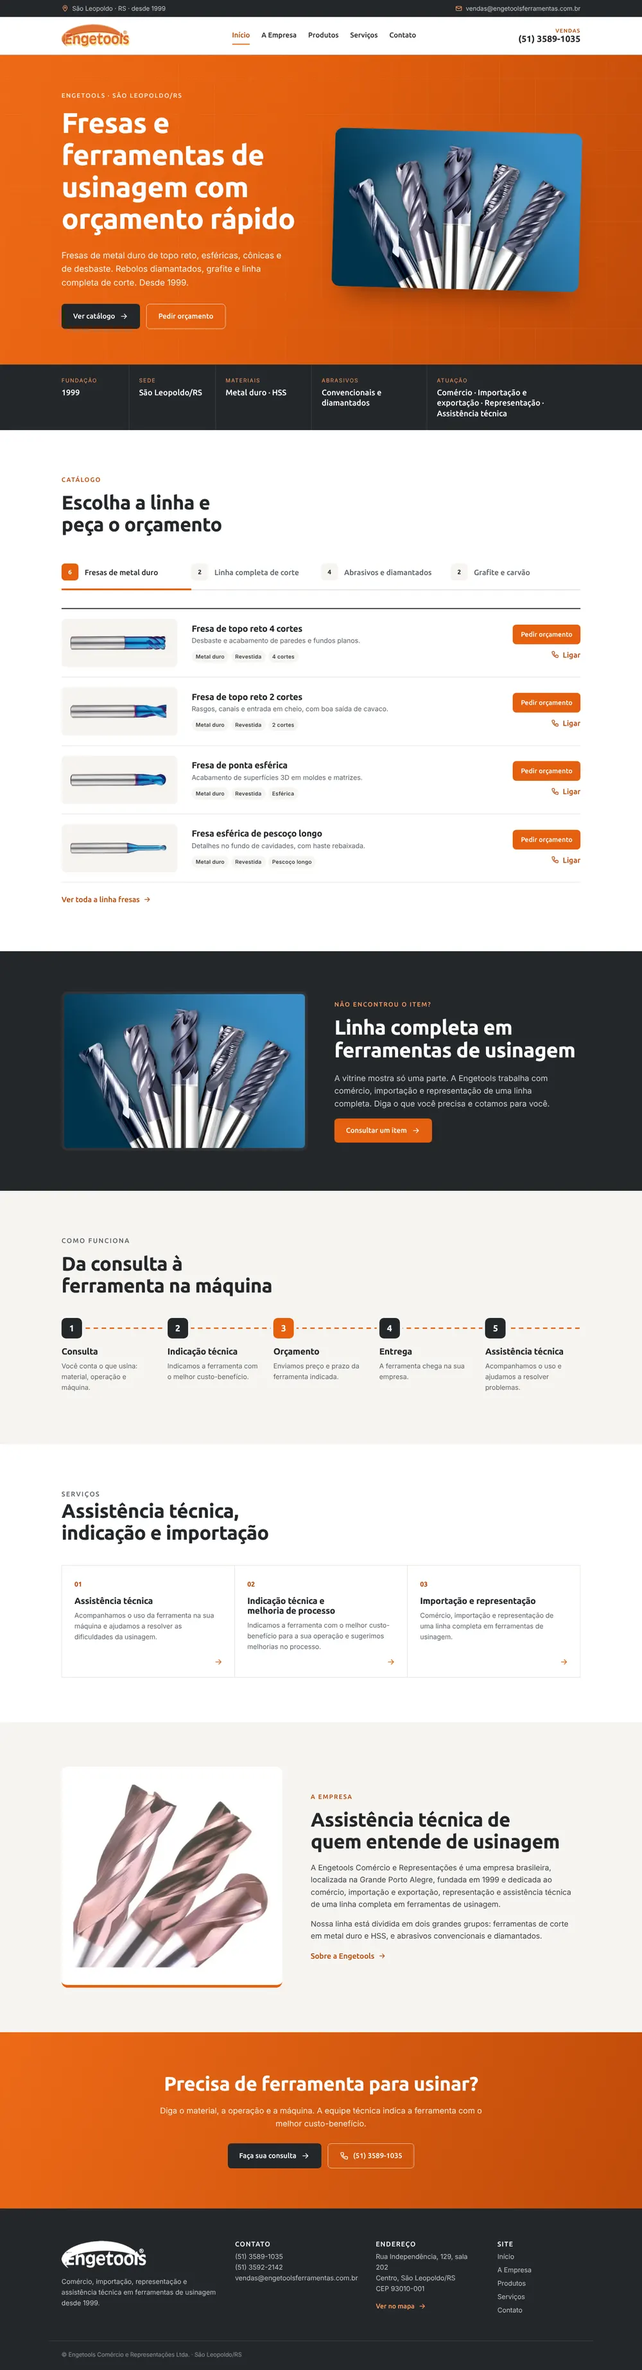
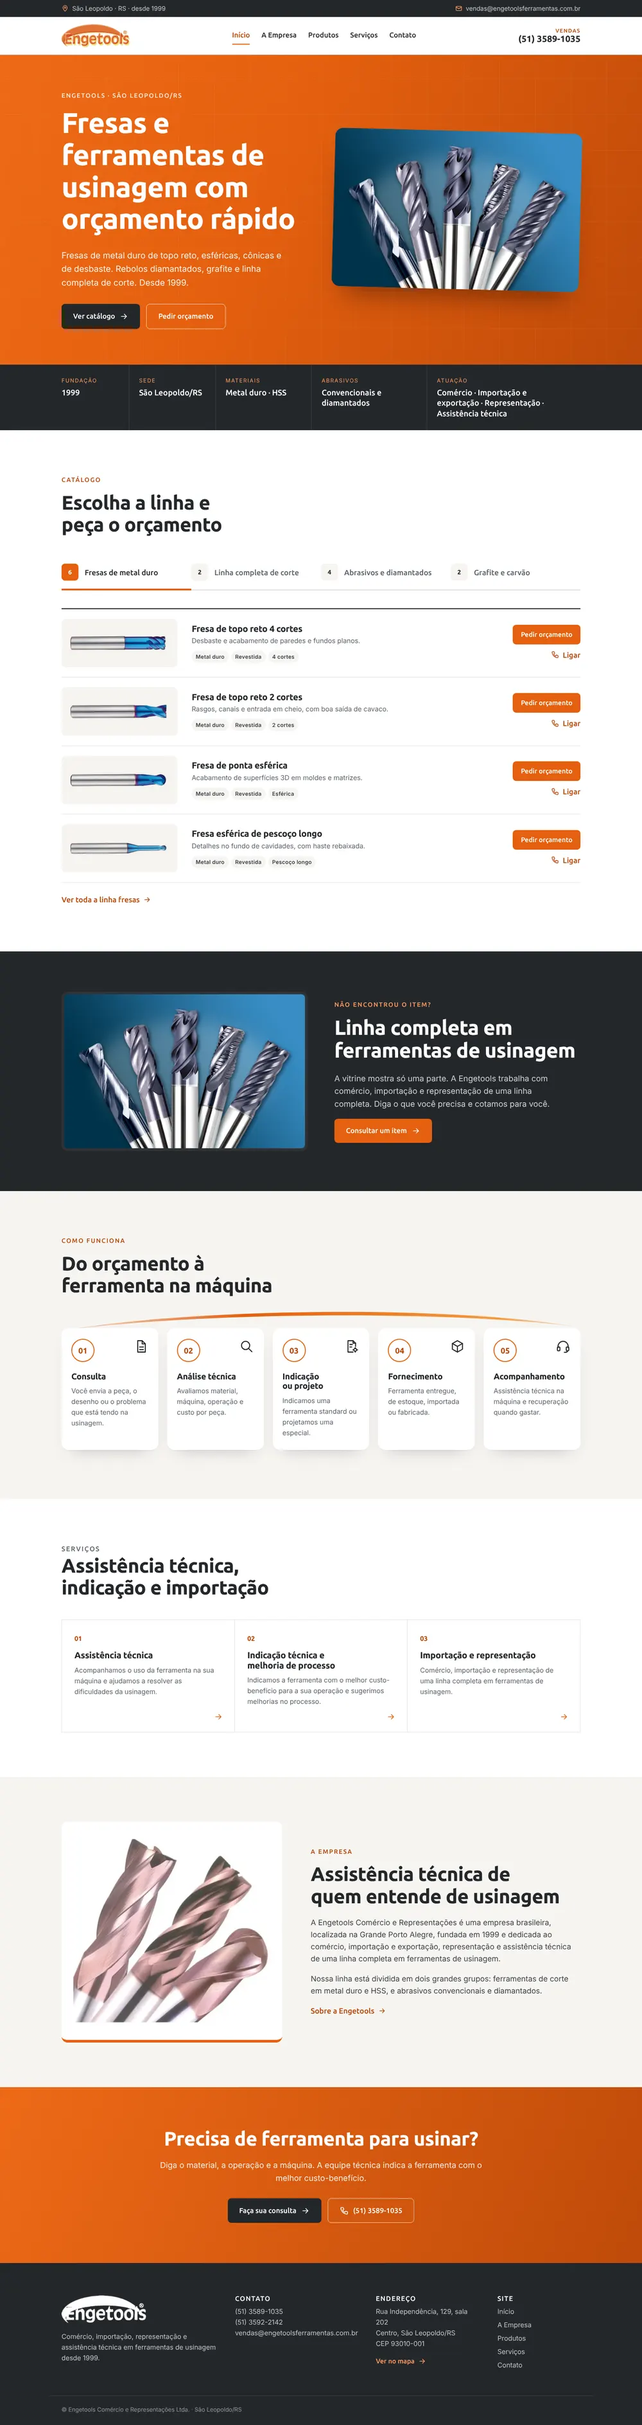
Engetools: dobra de etapas com o texto e o layout do Joao (arco e 5 cartões com número e ícone) nas duas versões
Claude-Session: https://claude.ai/code/session_014EQi8NbMcygHbghtyXaCQg

diff --git a/clientes/engetools/public/a/servicos/index.html b/clientes/engetools/public/a/servicos/index.html
@@ -36,9 +36,10 @@
 <main id="conteudo">
 <section class="capa"><div class="in"><p class="eyebrow">Serviços</p><h1>Assistência técnica de quem entende de usinagem</h1><p>Indicação da ferramenta certa, melhoria de processo, importação e representação.</p></div><svg class="arco" viewBox="0 0 1000 260" preserveAspectRatio="none" aria-hidden="true"><path d="M0 250C140 70 420 8 640 10c170 2 300 50 360 120-90-50-210-78-360-80C430 48 190 110 0 250z"/></svg></section>
 <section class="serv-lista"><div class="in"><article id="assistencia" class="serv-item"><figure><img src="/assets/img/fresas-cobre.webp" alt="Assistência técnica" width="700" height="649" loading="lazy" decoding="async"></figure><div><span class="n">01</span><h2>Assistência técnica</h2><p>Acompanhamos o uso da ferramenta na sua máquina e ajudamos a resolver as dificuldades da usinagem.</p></div></article><article id="indicacao" class="serv-item inv"><figure><img src="/assets/img/fresas-grupo.webp" alt="Indicação técnica e melhoria de processo" width="625" height="400" loading="lazy" decoding="async"></figure><div><span class="n">02</span><h2>Indicação técnica e melhoria de processo</h2><p>Indicamos a ferramenta com o melhor custo-benefício para a sua operação e sugerimos melhorias no processo.</p></div></article><article id="importacao" class="serv-item"><figure><img src="/assets/img/rebolos-diamantados.webp" alt="Importação e representação" width="546" height="406" loading="lazy" decoding="async"></figure><div><span class="n">03</span><h2>Importação e representação</h2><p>Comércio, importação e representação de uma linha completa em ferramentas de usinagem.</p></div></article></div></section>
-<section class="processo-a"><div class="in">
-  <div class="tit"><p class="eyebrow">Como funciona</p><h2>Da consulta à ferramenta na máquina</h2></div>
-  <svg class="arco arco-linha" viewBox="0 0 1000 260" preserveAspectRatio="none" aria-hidden="true"><path d="M0 250C140 70 420 8 640 10c170 2 300 50 360 120-90-50-210-78-360-80C430 48 190 110 0 250z"/></svg><ol class="etapas-arco"><li style="--i:0"><span class="n">01</span><h3>Consulta</h3><p>Você conta o que usina: material, operação e máquina.</p></li><li style="--i:1"><span class="n">02</span><h3>Indicação técnica</h3><p>Indicamos a ferramenta com o melhor custo-benefício.</p></li><li style="--i:2"><span class="n">03</span><h3>Orçamento</h3><p>Enviamos preço e prazo da ferramenta indicada.</p></li><li style="--i:3"><span class="n">04</span><h3>Entrega</h3><p>A ferramenta chega na sua empresa.</p></li><li style="--i:4"><span class="n">05</span><h3>Assistência técnica</h3><p>Acompanhamos o uso e ajudamos a resolver problemas.</p></li></ol>
+<section class="etapas"><div class="in">
+  <div class="tit"><p class="eyebrow">Como funciona</p><h2>Do orçamento à<br>ferramenta na máquina</h2></div>
+  <svg class="etapas-arco" viewBox="0 0 1000 60" preserveAspectRatio="none" aria-hidden="true"><defs><linearGradient id="g-arco" x1="0" x2="1"><stop offset="0" stop-color="#E5600F" stop-opacity=".2"/><stop offset=".35" stop-color="#E5600F"/><stop offset=".85" stop-color="#F59A3C"/><stop offset="1" stop-color="#F59A3C" stop-opacity=".2"/></linearGradient></defs><path d="M10 58C260 6 740 -2 990 50C740 10 260 16 10 58z" fill="url(#g-arco)"/></svg>
+  <ol class="etapas-cards"><li><div class="etapa-topo"><span class="n">01</span><svg class="ic etapa-ic" viewBox="0 0 24 24" fill="none" stroke="currentColor" stroke-width="2" stroke-linecap="round" stroke-linejoin="round" aria-hidden="true"><path d="M7 3h7l5 5v13H7z"/><path d="M14 3v5h5M10 13h6M10 17h6"/></svg></div><h3>Consulta</h3><p>Você envia a peça, o desenho ou o problema que está tendo na usinagem.</p></li><li><div class="etapa-topo"><span class="n">02</span><svg class="ic etapa-ic" viewBox="0 0 24 24" fill="none" stroke="currentColor" stroke-width="2" stroke-linecap="round" stroke-linejoin="round" aria-hidden="true"><circle cx="10.5" cy="10.5" r="6.5"/><path d="M15.5 15.5l5 5"/></svg></div><h3>Análise técnica</h3><p>Avaliamos material, máquina, operação e custo por peça.</p></li><li><div class="etapa-topo"><span class="n">03</span><svg class="ic etapa-ic" viewBox="0 0 24 24" fill="none" stroke="currentColor" stroke-width="2" stroke-linecap="round" stroke-linejoin="round" aria-hidden="true"><path d="M14 21H6V3h8l4 4v5"/><path d="M14 3v4h4M9 9h4M9 13h3"/><circle cx="17.5" cy="17.5" r="2.2"/><path d="M17.5 13.8v1.5M17.5 19.7v1.5M13.8 17.5h1.5M19.7 17.5h1.5"/></svg></div><h3>Indicação ou projeto</h3><p>Indicamos uma ferramenta standard ou projetamos uma especial.</p></li><li><div class="etapa-topo"><span class="n">04</span><svg class="ic etapa-ic" viewBox="0 0 24 24" fill="none" stroke="currentColor" stroke-width="2" stroke-linecap="round" stroke-linejoin="round" aria-hidden="true"><path d="M12 3l8 4.5v9L12 21l-8-4.5v-9z"/><path d="M4 7.5l8 4.5 8-4.5M12 12v9"/></svg></div><h3>Fornecimento</h3><p>Ferramenta entregue, de estoque, importada ou fabricada.</p></li><li><div class="etapa-topo"><span class="n">05</span><svg class="ic etapa-ic" viewBox="0 0 24 24" fill="none" stroke="currentColor" stroke-width="2" stroke-linecap="round" stroke-linejoin="round" aria-hidden="true"><path d="M4 14v-2a8 8 0 0116 0v2"/><rect x="3" y="13" width="4" height="6" rx="1.5"/><rect x="17" y="13" width="4" height="6" rx="1.5"/><path d="M19 19c0 1.5-2 2.5-5 2.5"/></svg></div><h3>Acompanhamento</h3><p>Assistência técnica na máquina e recuperação quando gastar.</p></li></ol>
 </div></section>
 <section class="cta"><div class="in">
   <div><h2>Faça sua consulta</h2><p>Diga o que você usina e qual ferramenta procura. Respondemos com a indicação, o preço e o prazo.</p></div>

diff --git a/clientes/engetools/public/a/index.html b/clientes/engetools/public/a/index.html
@@ -74,9 +74,10 @@
   <div class="serv-tres"><a class="serv" href="/a/servicos/#assistencia"><figure><img src="/assets/img/fresas-cobre.webp" alt="Assistência técnica" width="700" height="649" loading="lazy" decoding="async"></figure><h3>Assistência técnica</h3><p>Acompanhamos o uso da ferramenta na sua máquina e ajudamos a resolver as dificuldades da usinagem.</p></a><a class="serv" href="/a/servicos/#indicacao"><figure><img src="/assets/img/fresas-grupo.webp" alt="Indicação técnica e melhoria de processo" width="625" height="400" loading="lazy" decoding="async"></figure><h3>Indicação técnica e melhoria de processo</h3><p>Indicamos a ferramenta com o melhor custo-benefício para a sua operação e sugerimos melhorias no processo.</p></a><a class="serv" href="/a/servicos/#importacao"><figure><img src="/assets/img/rebolos-diamantados.webp" alt="Importação e representação" width="546" height="406" loading="lazy" decoding="async"></figure><h3>Importação e representação</h3><p>Comércio, importação e representação de uma linha completa em ferramentas de usinagem.</p></a></div>
   <p class="centro"><a class="link link-claro" href="/a/servicos/">Todos os serviços <svg class="ic" viewBox="0 0 24 24" fill="none" stroke="currentColor" stroke-width="2" stroke-linecap="round" stroke-linejoin="round" aria-hidden="true"><path d="M5 12h14M13 6l6 6-6 6"/></svg></a></p>
 </div></section>
-<section class="processo-a"><div class="in">
-  <div class="tit"><p class="eyebrow">Como funciona</p><h2>Da consulta à ferramenta na máquina</h2></div>
-  <svg class="arco arco-linha" viewBox="0 0 1000 260" preserveAspectRatio="none" aria-hidden="true"><path d="M0 250C140 70 420 8 640 10c170 2 300 50 360 120-90-50-210-78-360-80C430 48 190 110 0 250z"/></svg><ol class="etapas-arco"><li style="--i:0"><span class="n">01</span><h3>Consulta</h3><p>Você conta o que usina: material, operação e máquina.</p></li><li style="--i:1"><span class="n">02</span><h3>Indicação técnica</h3><p>Indicamos a ferramenta com o melhor custo-benefício.</p></li><li style="--i:2"><span class="n">03</span><h3>Orçamento</h3><p>Enviamos preço e prazo da ferramenta indicada.</p></li><li style="--i:3"><span class="n">04</span><h3>Entrega</h3><p>A ferramenta chega na sua empresa.</p></li><li style="--i:4"><span class="n">05</span><h3>Assistência técnica</h3><p>Acompanhamos o uso e ajudamos a resolver problemas.</p></li></ol>
+<section class="etapas"><div class="in">
+  <div class="tit"><p class="eyebrow">Como funciona</p><h2>Do orçamento à<br>ferramenta na máquina</h2></div>
+  <svg class="etapas-arco" viewBox="0 0 1000 60" preserveAspectRatio="none" aria-hidden="true"><defs><linearGradient id="g-arco" x1="0" x2="1"><stop offset="0" stop-color="#E5600F" stop-opacity=".2"/><stop offset=".35" stop-color="#E5600F"/><stop offset=".85" stop-color="#F59A3C"/><stop offset="1" stop-color="#F59A3C" stop-opacity=".2"/></linearGradient></defs><path d="M10 58C260 6 740 -2 990 50C740 10 260 16 10 58z" fill="url(#g-arco)"/></svg>
+  <ol class="etapas-cards"><li><div class="etapa-topo"><span class="n">01</span><svg class="ic etapa-ic" viewBox="0 0 24 24" fill="none" stroke="currentColor" stroke-width="2" stroke-linecap="round" stroke-linejoin="round" aria-hidden="true"><path d="M7 3h7l5 5v13H7z"/><path d="M14 3v5h5M10 13h6M10 17h6"/></svg></div><h3>Consulta</h3><p>Você envia a peça, o desenho ou o problema que está tendo na usinagem.</p></li><li><div class="etapa-topo"><span class="n">02</span><svg class="ic etapa-ic" viewBox="0 0 24 24" fill="none" stroke="currentColor" stroke-width="2" stroke-linecap="round" stroke-linejoin="round" aria-hidden="true"><circle cx="10.5" cy="10.5" r="6.5"/><path d="M15.5 15.5l5 5"/></svg></div><h3>Análise técnica</h3><p>Avaliamos material, máquina, operação e custo por peça.</p></li><li><div class="etapa-topo"><span class="n">03</span><svg class="ic etapa-ic" viewBox="0 0 24 24" fill="none" stroke="currentColor" stroke-width="2" stroke-linecap="round" stroke-linejoin="round" aria-hidden="true"><path d="M14 21H6V3h8l4 4v5"/><path d="M14 3v4h4M9 9h4M9 13h3"/><circle cx="17.5" cy="17.5" r="2.2"/><path d="M17.5 13.8v1.5M17.5 19.7v1.5M13.8 17.5h1.5M19.7 17.5h1.5"/></svg></div><h3>Indicação ou projeto</h3><p>Indicamos uma ferramenta standard ou projetamos uma especial.</p></li><li><div class="etapa-topo"><span class="n">04</span><svg class="ic etapa-ic" viewBox="0 0 24 24" fill="none" stroke="currentColor" stroke-width="2" stroke-linecap="round" stroke-linejoin="round" aria-hidden="true"><path d="M12 3l8 4.5v9L12 21l-8-4.5v-9z"/><path d="M4 7.5l8 4.5 8-4.5M12 12v9"/></svg></div><h3>Fornecimento</h3><p>Ferramenta entregue, de estoque, importada ou fabricada.</p></li><li><div class="etapa-topo"><span class="n">05</span><svg class="ic etapa-ic" viewBox="0 0 24 24" fill="none" stroke="currentColor" stroke-width="2" stroke-linecap="round" stroke-linejoin="round" aria-hidden="true"><path d="M4 14v-2a8 8 0 0116 0v2"/><rect x="3" y="13" width="4" height="6" rx="1.5"/><rect x="17" y="13" width="4" height="6" rx="1.5"/><path d="M19 19c0 1.5-2 2.5-5 2.5"/></svg></div><h3>Acompanhamento</h3><p>Assistência técnica na máquina e recuperação quando gastar.</p></li></ol>
 </div></section>
 <section class="cta"><div class="in">
   <div><h2>Faça sua consulta</h2><p>Diga o que você usina e qual ferramenta procura. Respondemos com a indicação, o preço e o prazo.</p></div>

diff --git a/clientes/engetools/public/b/servicos/index.html b/clientes/engetools/public/b/servicos/index.html
@@ -37,10 +37,10 @@
 <main id="conteudo">
 <section class="capa"><div class="in"><p class="eyebrow">Serviços</p><h1>Assistência técnica de quem entende de usinagem</h1><p>Da indicação da ferramenta ao acompanhamento na sua máquina.</p></div></section>
 <section class="serv-b"><div class="in"><article id="assistencia"><span class="n">01</span><figure><img src="/assets/img/fresas-cobre.webp" alt="Assistência técnica" width="700" height="649" loading="lazy" decoding="async"></figure><div><h2>Assistência técnica</h2><p>Acompanhamos o uso da ferramenta na sua máquina e ajudamos a resolver as dificuldades da usinagem.</p></div></article><article id="indicacao"><span class="n">02</span><figure><img src="/assets/img/fresas-grupo.webp" alt="Indicação técnica e melhoria de processo" width="625" height="400" loading="lazy" decoding="async"></figure><div><h2>Indicação técnica e melhoria de processo</h2><p>Indicamos a ferramenta com o melhor custo-benefício para a sua operação e sugerimos melhorias no processo.</p></div></article><article id="importacao"><span class="n">03</span><figure><img src="/assets/img/rebolos-diamantados.webp" alt="Importação e representação" width="546" height="406" loading="lazy" decoding="async"></figure><div><h2>Importação e representação</h2><p>Comércio, importação e representação de uma linha completa em ferramentas de usinagem.</p></div></article></div></section>
-<section class="trilha"><div class="in">
-  <div class="tit"><p class="eyebrow">Como funciona</p><h2>Da consulta à ferramenta na máquina</h2></div>
-  <div class="trilha-caixa"><svg class="trilha-linha" viewBox="0 0 1000 12" preserveAspectRatio="none" aria-hidden="true"><path d="M0 6H1000"/></svg>
-  <ol><li><span class="n">1</span><h3>Consulta</h3><p>Você conta o que usina: material, operação e máquina.</p></li><li><span class="n">2</span><h3>Indicação técnica</h3><p>Indicamos a ferramenta com o melhor custo-benefício.</p></li><li><span class="n">3</span><h3>Orçamento</h3><p>Enviamos preço e prazo da ferramenta indicada.</p></li><li><span class="n">4</span><h3>Entrega</h3><p>A ferramenta chega na sua empresa.</p></li><li><span class="n">5</span><h3>Assistência técnica</h3><p>Acompanhamos o uso e ajudamos a resolver problemas.</p></li></ol></div>
+<section class="etapas"><div class="in">
+  <div class="tit"><p class="eyebrow">Como funciona</p><h2>Do orçamento à<br>ferramenta na máquina</h2></div>
+  <svg class="etapas-arco" viewBox="0 0 1000 60" preserveAspectRatio="none" aria-hidden="true"><defs><linearGradient id="g-arco" x1="0" x2="1"><stop offset="0" stop-color="#E5600F" stop-opacity=".2"/><stop offset=".35" stop-color="#E5600F"/><stop offset=".85" stop-color="#F59A3C"/><stop offset="1" stop-color="#F59A3C" stop-opacity=".2"/></linearGradient></defs><path d="M10 58C260 6 740 -2 990 50C740 10 260 16 10 58z" fill="url(#g-arco)"/></svg>
+  <ol class="etapas-cards"><li><div class="etapa-topo"><span class="n">01</span><svg class="ic etapa-ic" viewBox="0 0 24 24" fill="none" stroke="currentColor" stroke-width="2" stroke-linecap="round" stroke-linejoin="round" aria-hidden="true"><path d="M7 3h7l5 5v13H7z"/><path d="M14 3v5h5M10 13h6M10 17h6"/></svg></div><h3>Consulta</h3><p>Você envia a peça, o desenho ou o problema que está tendo na usinagem.</p></li><li><div class="etapa-topo"><span class="n">02</span><svg class="ic etapa-ic" viewBox="0 0 24 24" fill="none" stroke="currentColor" stroke-width="2" stroke-linecap="round" stroke-linejoin="round" aria-hidden="true"><circle cx="10.5" cy="10.5" r="6.5"/><path d="M15.5 15.5l5 5"/></svg></div><h3>Análise técnica</h3><p>Avaliamos material, máquina, operação e custo por peça.</p></li><li><div class="etapa-topo"><span class="n">03</span><svg class="ic etapa-ic" viewBox="0 0 24 24" fill="none" stroke="currentColor" stroke-width="2" stroke-linecap="round" stroke-linejoin="round" aria-hidden="true"><path d="M14 21H6V3h8l4 4v5"/><path d="M14 3v4h4M9 9h4M9 13h3"/><circle cx="17.5" cy="17.5" r="2.2"/><path d="M17.5 13.8v1.5M17.5 19.7v1.5M13.8 17.5h1.5M19.7 17.5h1.5"/></svg></div><h3>Indicação ou projeto</h3><p>Indicamos uma ferramenta standard ou projetamos uma especial.</p></li><li><div class="etapa-topo"><span class="n">04</span><svg class="ic etapa-ic" viewBox="0 0 24 24" fill="none" stroke="currentColor" stroke-width="2" stroke-linecap="round" stroke-linejoin="round" aria-hidden="true"><path d="M12 3l8 4.5v9L12 21l-8-4.5v-9z"/><path d="M4 7.5l8 4.5 8-4.5M12 12v9"/></svg></div><h3>Fornecimento</h3><p>Ferramenta entregue, de estoque, importada ou fabricada.</p></li><li><div class="etapa-topo"><span class="n">05</span><svg class="ic etapa-ic" viewBox="0 0 24 24" fill="none" stroke="currentColor" stroke-width="2" stroke-linecap="round" stroke-linejoin="round" aria-hidden="true"><path d="M4 14v-2a8 8 0 0116 0v2"/><rect x="3" y="13" width="4" height="6" rx="1.5"/><rect x="17" y="13" width="4" height="6" rx="1.5"/><path d="M19 19c0 1.5-2 2.5-5 2.5"/></svg></div><h3>Acompanhamento</h3><p>Assistência técnica na máquina e recuperação quando gastar.</p></li></ol>
 </div></section>
 <section class="cta"><div class="in">
   <h2>Precisa de ferramenta para usinar?</h2>

diff --git a/clientes/engetools/public/b/index.html b/clientes/engetools/public/b/index.html
@@ -99,10 +99,10 @@
   <div><p class="eyebrow">Não encontrou o item?</p><h2>Linha completa em ferramentas de usinagem</h2><p>A vitrine mostra só uma parte. A Engetools trabalha com comércio, importação e representação de uma linha completa. Diga o que você precisa e cotamos para você.</p>
   <a class="btn" href="/b/contato/#form">Consultar um item <svg class="ic" viewBox="0 0 24 24" fill="none" stroke="currentColor" stroke-width="2" stroke-linecap="round" stroke-linejoin="round" aria-hidden="true"><path d="M5 12h14M13 6l6 6-6 6"/></svg></a></div>
 </div></section>
-<section class="trilha"><div class="in">
-  <div class="tit"><p class="eyebrow">Como funciona</p><h2>Da consulta à ferramenta na máquina</h2></div>
-  <div class="trilha-caixa"><svg class="trilha-linha" viewBox="0 0 1000 12" preserveAspectRatio="none" aria-hidden="true"><path d="M0 6H1000"/></svg>
-  <ol><li><span class="n">1</span><h3>Consulta</h3><p>Você conta o que usina: material, operação e máquina.</p></li><li><span class="n">2</span><h3>Indicação técnica</h3><p>Indicamos a ferramenta com o melhor custo-benefício.</p></li><li><span class="n">3</span><h3>Orçamento</h3><p>Enviamos preço e prazo da ferramenta indicada.</p></li><li><span class="n">4</span><h3>Entrega</h3><p>A ferramenta chega na sua empresa.</p></li><li><span class="n">5</span><h3>Assistência técnica</h3><p>Acompanhamos o uso e ajudamos a resolver problemas.</p></li></ol></div>
+<section class="etapas"><div class="in">
+  <div class="tit"><p class="eyebrow">Como funciona</p><h2>Do orçamento à<br>ferramenta na máquina</h2></div>
+  <svg class="etapas-arco" viewBox="0 0 1000 60" preserveAspectRatio="none" aria-hidden="true"><defs><linearGradient id="g-arco" x1="0" x2="1"><stop offset="0" stop-color="#E5600F" stop-opacity=".2"/><stop offset=".35" stop-color="#E5600F"/><stop offset=".85" stop-color="#F59A3C"/><stop offset="1" stop-color="#F59A3C" stop-opacity=".2"/></linearGradient></defs><path d="M10 58C260 6 740 -2 990 50C740 10 260 16 10 58z" fill="url(#g-arco)"/></svg>
+  <ol class="etapas-cards"><li><div class="etapa-topo"><span class="n">01</span><svg class="ic etapa-ic" viewBox="0 0 24 24" fill="none" stroke="currentColor" stroke-width="2" stroke-linecap="round" stroke-linejoin="round" aria-hidden="true"><path d="M7 3h7l5 5v13H7z"/><path d="M14 3v5h5M10 13h6M10 17h6"/></svg></div><h3>Consulta</h3><p>Você envia a peça, o desenho ou o problema que está tendo na usinagem.</p></li><li><div class="etapa-topo"><span class="n">02</span><svg class="ic etapa-ic" viewBox="0 0 24 24" fill="none" stroke="currentColor" stroke-width="2" stroke-linecap="round" stroke-linejoin="round" aria-hidden="true"><circle cx="10.5" cy="10.5" r="6.5"/><path d="M15.5 15.5l5 5"/></svg></div><h3>Análise técnica</h3><p>Avaliamos material, máquina, operação e custo por peça.</p></li><li><div class="etapa-topo"><span class="n">03</span><svg class="ic etapa-ic" viewBox="0 0 24 24" fill="none" stroke="currentColor" stroke-width="2" stroke-linecap="round" stroke-linejoin="round" aria-hidden="true"><path d="M14 21H6V3h8l4 4v5"/><path d="M14 3v4h4M9 9h4M9 13h3"/><circle cx="17.5" cy="17.5" r="2.2"/><path d="M17.5 13.8v1.5M17.5 19.7v1.5M13.8 17.5h1.5M19.7 17.5h1.5"/></svg></div><h3>Indicação ou projeto</h3><p>Indicamos uma ferramenta standard ou projetamos uma especial.</p></li><li><div class="etapa-topo"><span class="n">04</span><svg class="ic etapa-ic" viewBox="0 0 24 24" fill="none" stroke="currentColor" stroke-width="2" stroke-linecap="round" stroke-linejoin="round" aria-hidden="true"><path d="M12 3l8 4.5v9L12 21l-8-4.5v-9z"/><path d="M4 7.5l8 4.5 8-4.5M12 12v9"/></svg></div><h3>Fornecimento</h3><p>Ferramenta entregue, de estoque, importada ou fabricada.</p></li><li><div class="etapa-topo"><span class="n">05</span><svg class="ic etapa-ic" viewBox="0 0 24 24" fill="none" stroke="currentColor" stroke-width="2" stroke-linecap="round" stroke-linejoin="round" aria-hidden="true"><path d="M4 14v-2a8 8 0 0116 0v2"/><rect x="3" y="13" width="4" height="6" rx="1.5"/><rect x="17" y="13" width="4" height="6" rx="1.5"/><path d="M19 19c0 1.5-2 2.5-5 2.5"/></svg></div><h3>Acompanhamento</h3><p>Assistência técnica na máquina e recuperação quando gastar.</p></li></ol>
 </div></section>
 <section class="serv-grade"><div class="in">
   <div class="tit"><p class="eyebrow">Serviços</p><h2>Assistência técnica, indicação e importação</h2></div>

diff --git a/clientes/engetools/public/assets/base.css b/clientes/engetools/public/assets/base.css
@@ -79,3 +79,18 @@ p{margin:0 0 1em}
 /* fotos de vitrine: cabem inteiras na moldura, sem esticar a altura */
 .item figure img,.cat figure img,.linha-prod figure img{position:absolute;inset:0;margin:auto;width:calc(100% - 28px);height:calc(100% - 24px);max-height:none;object-fit:contain}
 .item figure,.cat figure,.linha-prod figure{position:relative}
+/* dobra de etapas (A e B): arco laranja fino e cinco cartões com número e ícone */
+.etapas{background:var(--fundo);padding:100px 0 110px;overflow:hidden}
+.etapas .tit{margin-bottom:20px}
+.etapas-arco{display:block;width:100%;height:56px;margin:0 0 -6px}
+.etapas-cards{list-style:none;padding:0;margin:0;display:grid;grid-template-columns:repeat(5,1fr);gap:20px}
+.etapas-cards li{background:#fff;border-radius:16px;padding:24px 22px 26px;box-shadow:0 18px 36px -24px rgba(36,39,43,.35),0 1px 0 rgba(36,39,43,.04);transition:transform .25s,box-shadow .25s}
+.etapas-cards li:hover{transform:translateY(-4px);box-shadow:0 26px 40px -24px rgba(229,96,15,.45)}
+.etapa-topo{display:flex;justify-content:space-between;align-items:flex-start;margin:0 0 22px}
+.etapas-cards .n{display:grid;place-items:center;width:52px;height:52px;border-radius:50%;border:2.5px solid var(--lar);font-family:var(--h);font-weight:700;font-size:18px;color:var(--lar-txt)}
+.etapa-ic{width:34px;height:34px;color:var(--graf);stroke-width:1.6}
+.etapas-cards h3{font-size:19px;margin:0 0 10px}
+.etapas-cards p{font-size:15px;color:var(--cinza);margin:0}
+@media(max-width:1100px){.etapas-cards{grid-template-columns:repeat(3,1fr)}}
+@media(max-width:760px){.etapas-cards{grid-template-columns:1fr 1fr}.etapas{padding:64px 0}}
+@media(max-width:480px){.etapas-cards{grid-template-columns:1fr}}

diff --git a/clientes/engetools/_origem/LEIA-ME.md b/clientes/engetools/_origem/LEIA-ME.md
@@ -11,3 +11,4 @@
 - Gerar: `node clientes/engetools/_origem/gerar.mjs`. Prints em `public/assets/apresentacao/`, `og-*.jpg` e `../capa.jpg` refeitos com Playwright quando o visual mudar (forçar `loading=eager` antes do print de página inteira).
 - A confirmar: se há WhatsApp; marcas que representam; fotos da loja/equipe; se fazem grafite e carvão sob medida.
 - 22/10, correção do Joao: a Engetools é revenda (comércio, importação, representação e assistência técnica), não fabrica ferramenta sob desenho. Foram tirados do site: ferramentas especiais sob desenho, fabricação de diamantadas, usinagem para terceiros, peças técnicas, projetos de automação e recuperação de ferramentas (o site antigo cita esses itens, mas o Joao disse que não vale). Serviços agora: assistência técnica, indicação técnica e melhoria de processo, importação e representação. A confirmar: marcas representadas e se fazem recuperação/reafiação.
+- 22/10: a dobra "Do orçamento à ferramenta na máquina" (5 cartões) usa o texto e o layout que o Joao mandou, igual nas duas versões; ele decidiu manter "projetamos uma especial", "importada ou fabricada" e "recuperação" nessa dobra.
